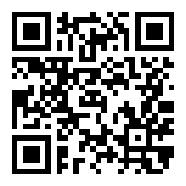
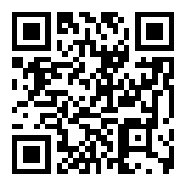
Updates btc and removes it from readme

diff --git a/example/src/views/home/home.view.js b/example/src/views/home/home.view.js
@@ -2,6 +2,10 @@ import React, { Component } from 'react';
 import bitcoinImg from './bitcoin.jpg';
 
 export class Home extends Component {
+  static get BTC() {
+    return '1MuQotL54dgTG1ounhkZtMB3DjPUP1yQ6C';
+  }
+
   render() {
     return (
       <section className='home container'>
@@ -10,9 +14,9 @@ export class Home extends Component {
         <ul>
           <li><a href='https://orloxx.github.io/ui-core/docs/'>JS documentation</a></li>
         </ul>
-        <p>I can always use a beer <span role='img' aria-label='Oh beer'>&#x1F37A;</span> or two :)</p>
-        <p>Bitcoin: 1sSBBuBgnapZ1Zxmf9PYoBMxv8kN6Wggb</p>
+        <h4>Donate (<span title='Bitcoin' aria-label='Bitcoin'>&#x20BF;itcoin</span>)</h4>
         <p><img src={bitcoinImg} alt='Donate Bitcoin' /></p>
+        <p>{Home.BTC}</p>
         <p><a href="https://github.com/orloxx/ui-core">Return to Github Repository</a></p>
       </section>
     );

diff --git a/README.md b/README.md
@@ -31,14 +31,6 @@ This is a work in progress, you can check out the `/example` folder which is dep
 
 For more information check out [the documentation](https://orloxx.github.io/ui-core/docs/) which is autogenerated using [ESDoc](https://esdoc.org/).
 
-## Donate
-
-I can always use a beer &#127866; or two :)
-
-Bitcoin: `1sSBBuBgnapZ1Zxmf9PYoBMxv8kN6Wggb`
-
-![Donate Bitcoin](https://github.com/orloxx/ui-core/raw/develop/example/src/views/home/bitcoin.jpg)
-
 ## License
 
 MIT © [orloxx](https://github.com/orloxx)
